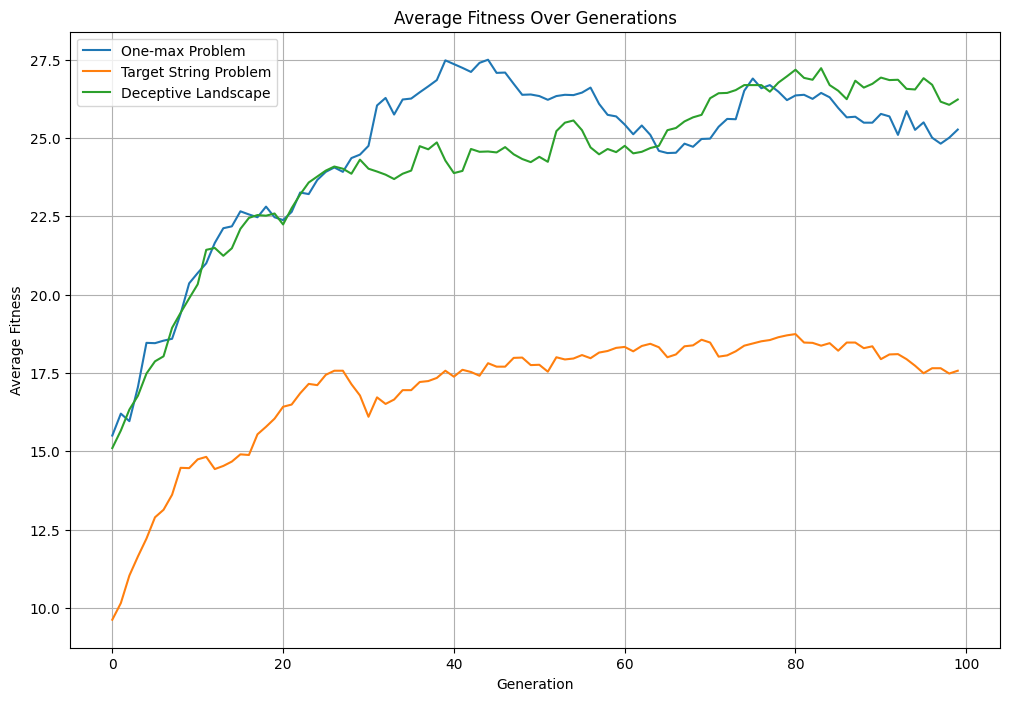
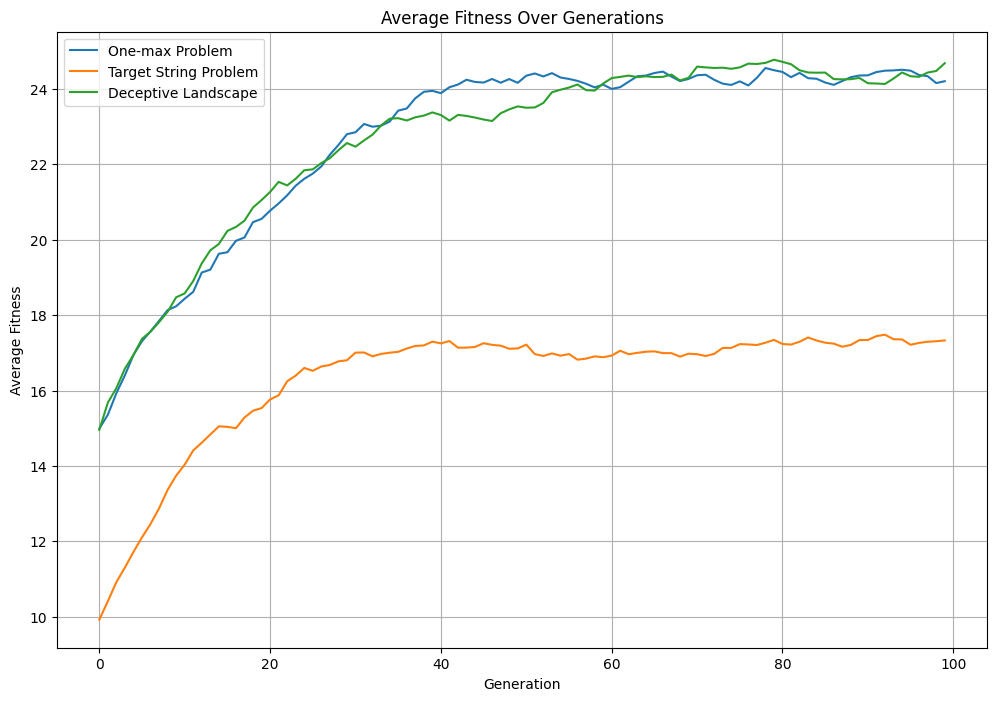
updated population size and graph

diff --git a/AI_Assignment_PartA/main.py b/AI_Assignment_PartA/main.py
@@ -3,7 +3,7 @@ import matplotlib.pyplot as plt
 
 # Parameters
 solution_size = 30
-population_size = 100
+population_size = 1000
 generations = 100
 mutation_rate = 0.01
 elite_size = 2
